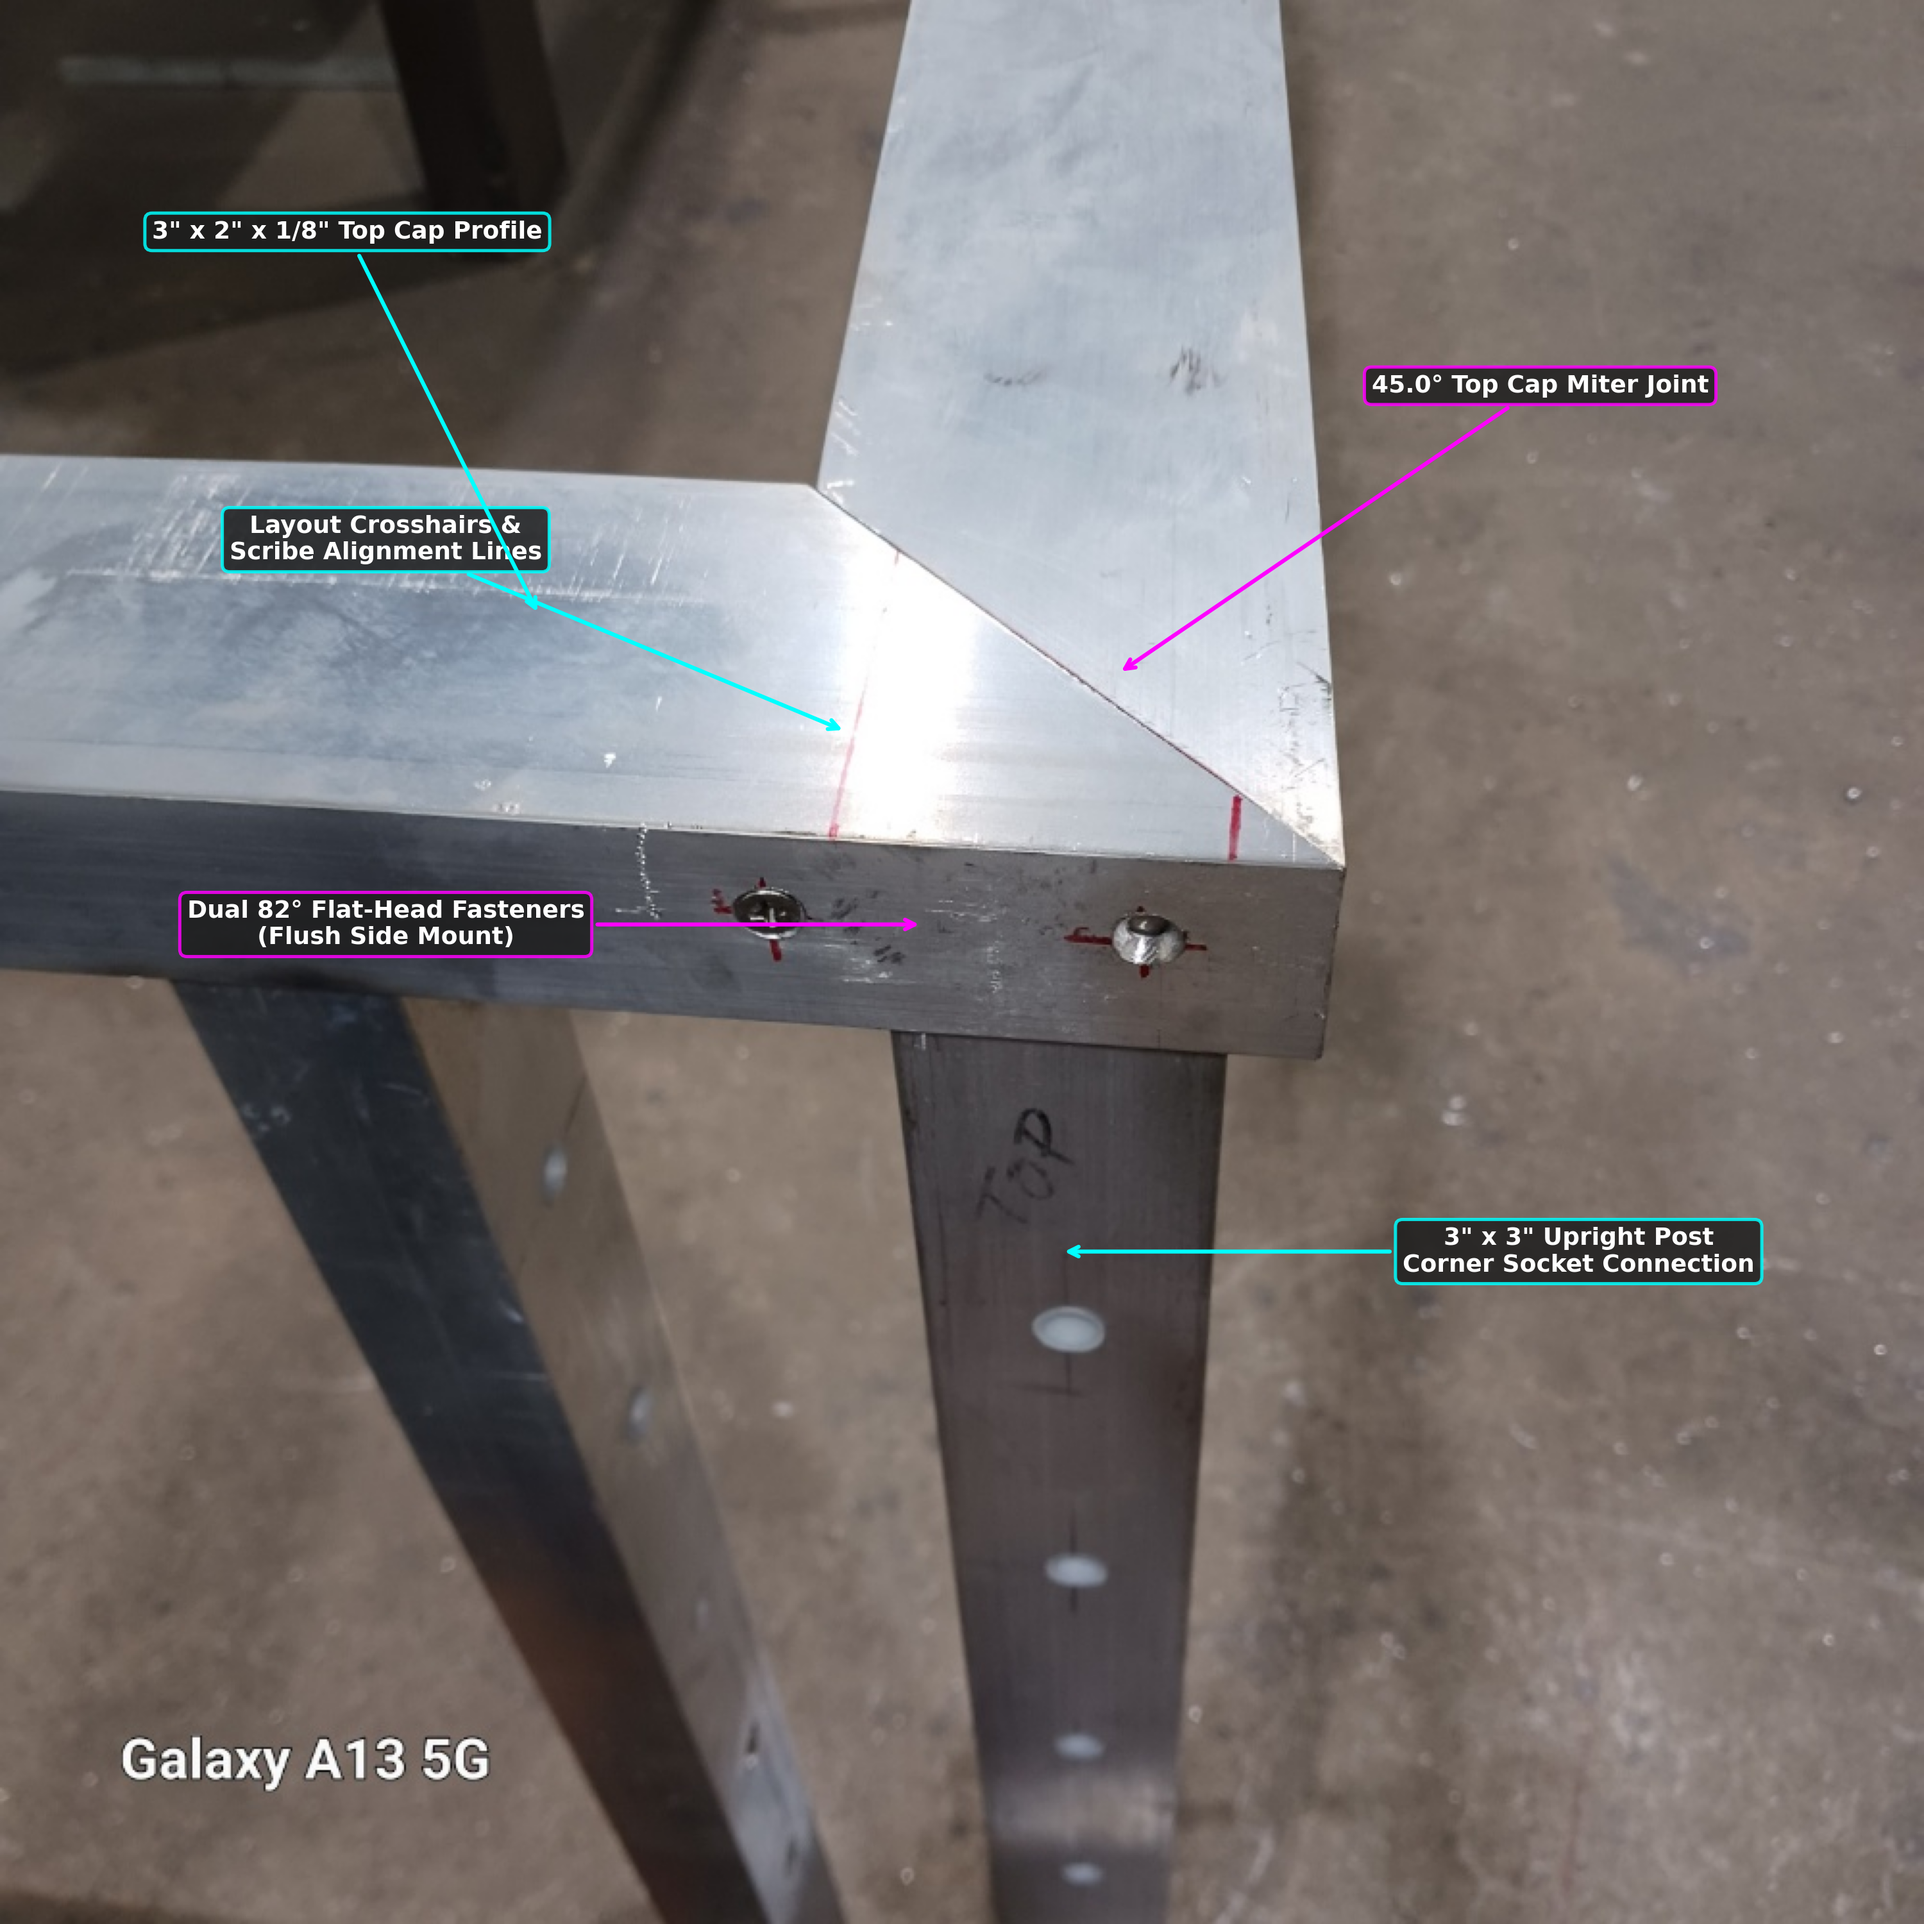
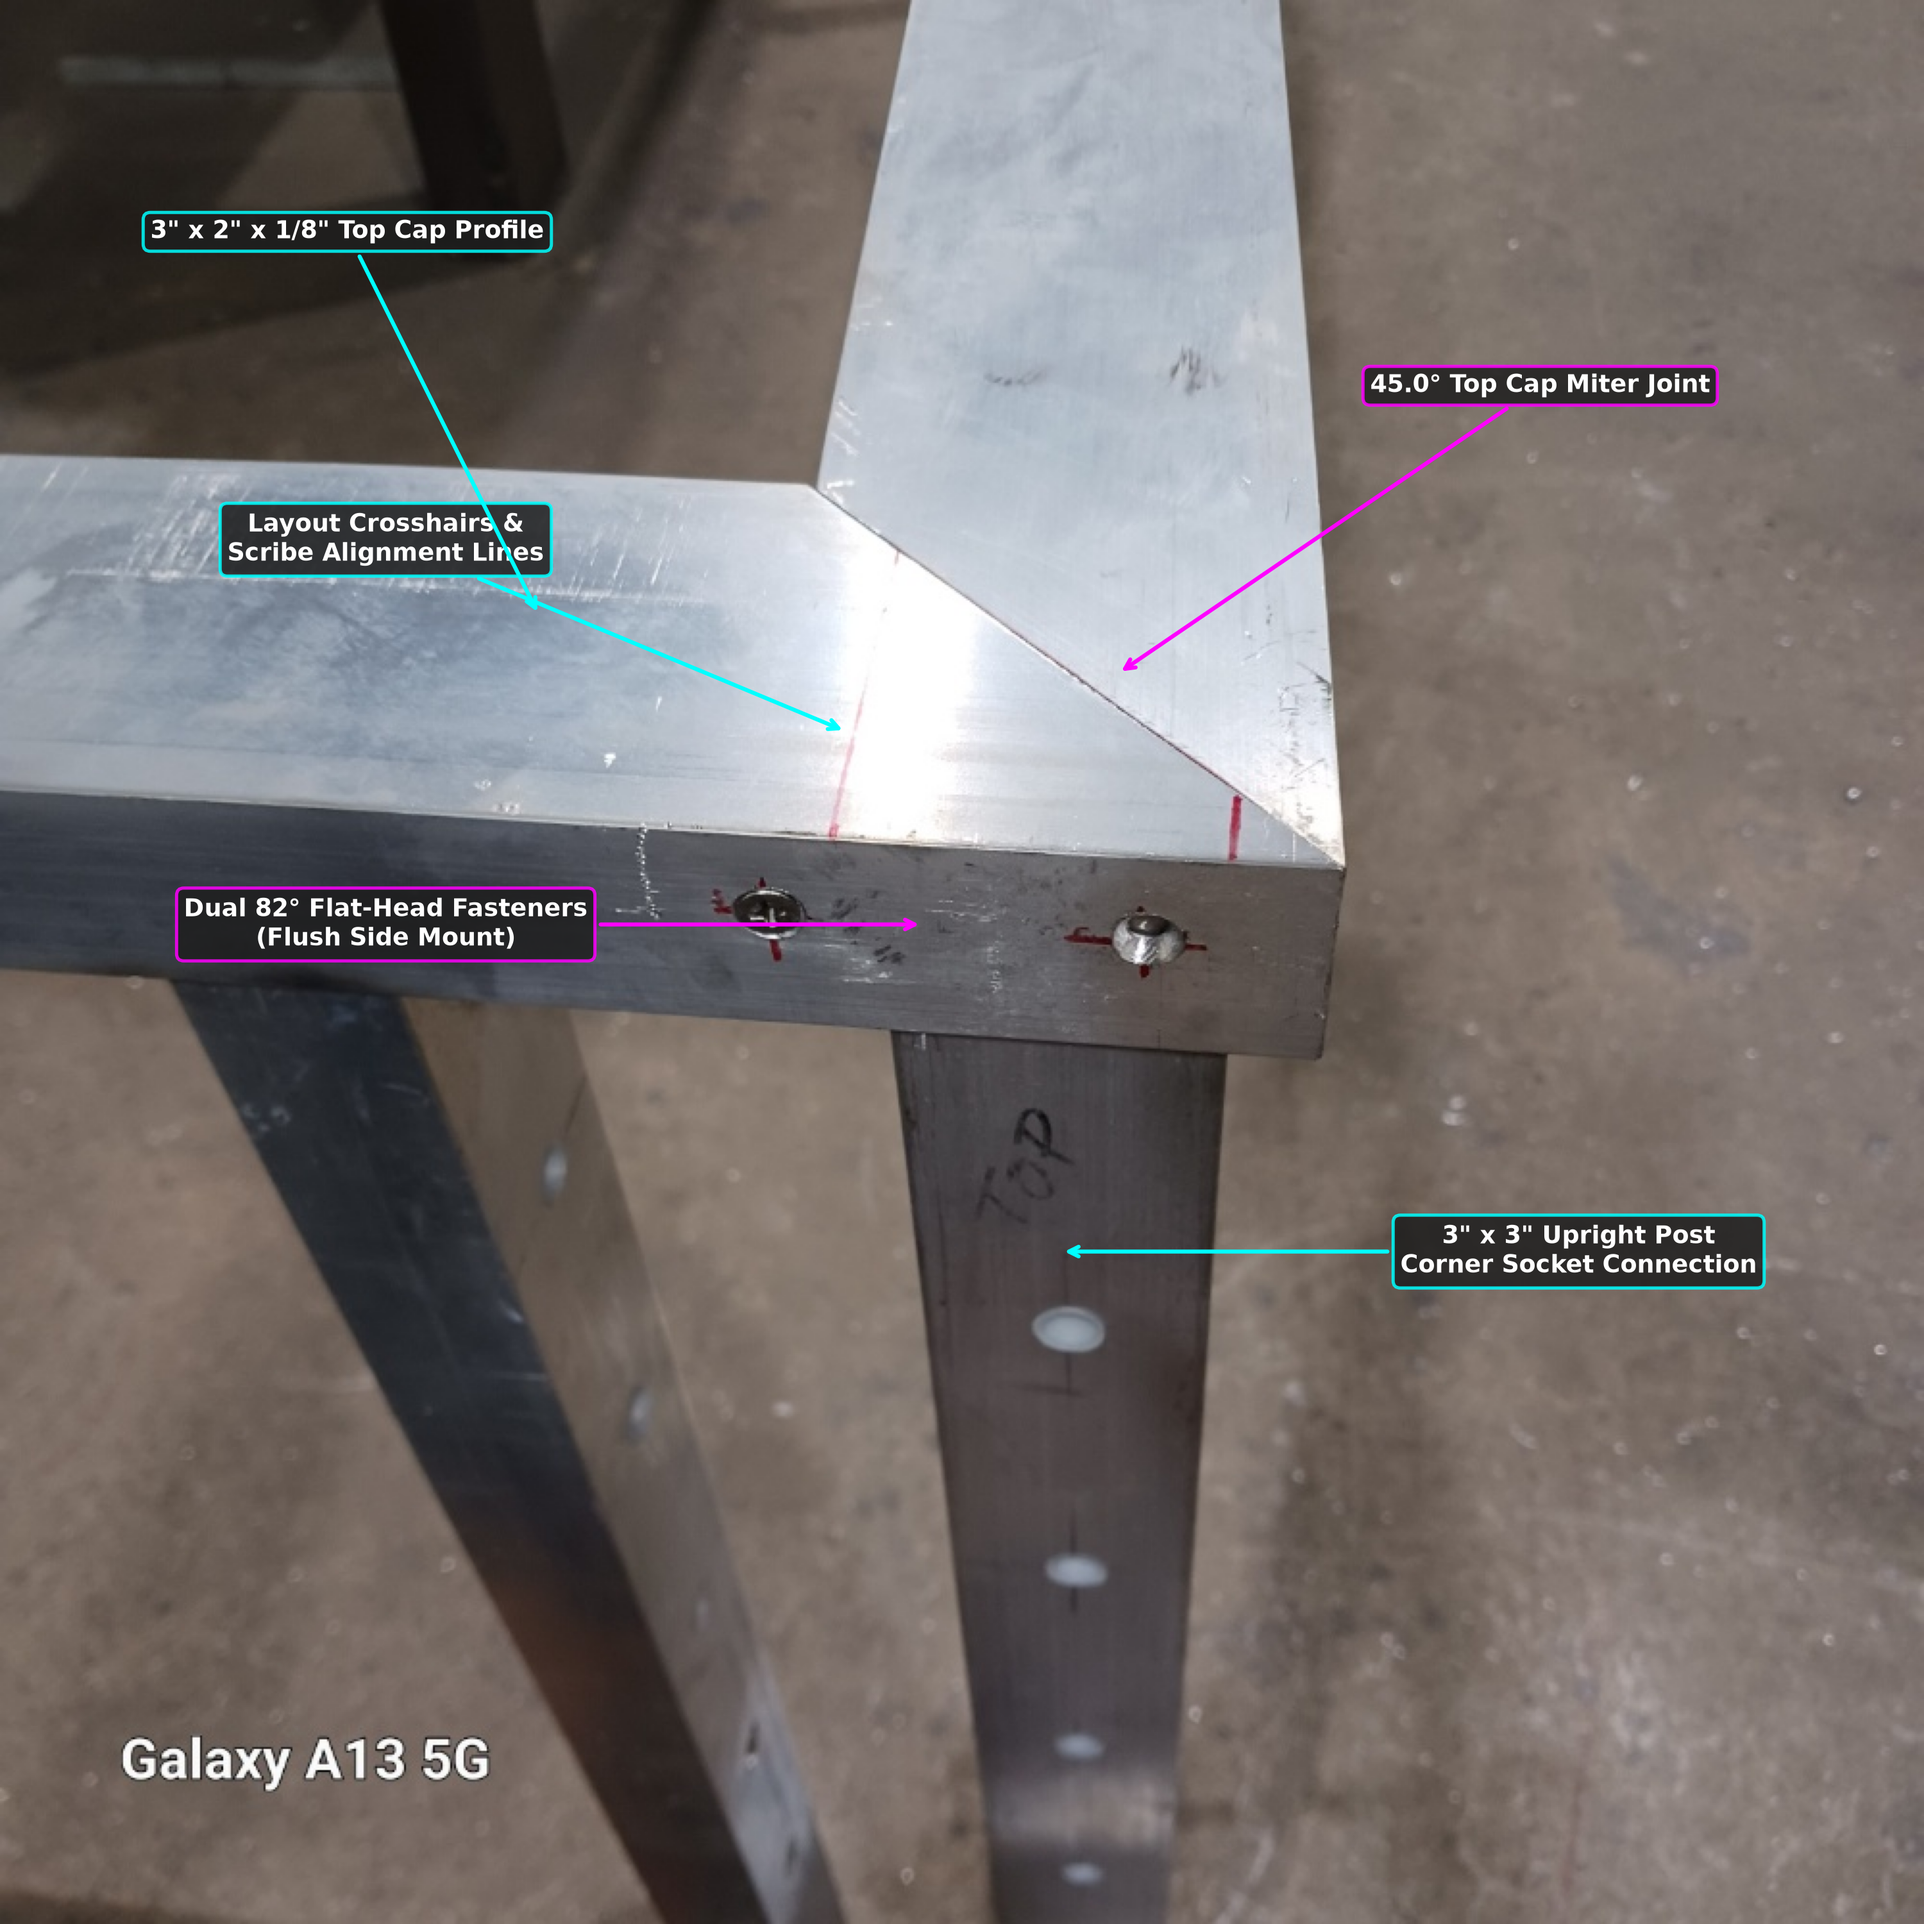
ci(qa): fix cross-platform paths & configure CI build workflow

diff --git a/annotate_frame_corner.py b/annotate_frame_corner.py
@@ -4,10 +4,11 @@ import matplotlib.patches as patches
 from PIL import Image
 
 # =========================================================
-# 1. PATH CONFIGURATION & FILE RESOLUTION
+# 1. PATH CONFIGURATION & FILE RESOLUTION (CROSS-PLATFORM)
 # =========================================================
-repo_dir = r"C:\Users\bmich\Documents\L\templates\aluminum-handrail-generator"
-image_filenames = ["1000006413.jpg", "handrail_corner_spec.jpg"]
+# Dynamically locate repository root regardless of OS environment
+repo_dir = os.path.dirname(os.path.abspath(__file__))
+image_filenames = ["handrail_corner.png", "handrail_corner.jpg", "image_3.png", "1000006413.jpg"]
 
 search_paths = []
 for fname in image_filenames:
@@ -25,8 +26,8 @@ for path in search_paths:
 
 if not input_image_path:
     raise FileNotFoundError(
-        f"Could not locate 1000006413.jpg or handrail_corner_spec.jpg in repo directory: {repo_dir}\n"
-        f"Please verify the image is placed in your repository folder."
+        f"Could not locate 'handrail_corner.png' in repository path: {repo_dir}\n"
+        f"Please verify the image file exists in the workspace."
     )
 
 output_image_path = os.path.join(repo_dir, "handrail_corner_spec.png")
@@ -39,9 +40,9 @@ width, height = img.size
 
 fig, ax = plt.subplots(figsize=(10, 10), dpi=300)
 ax.imshow(img)
-ax.axis("off")
+ax.axis("off")  # Suppress pixel grid
 
-# Colors
+# Style definitions
 cyan = "#00FFFF"
 magenta = "#FF00FF"
 white = "#FFFFFF"
@@ -50,6 +51,7 @@ box_style = dict(boxstyle="round,pad=0.3", facecolor="#1E1E1E", edgecolor=cyan, 
 mag_box_style = dict(boxstyle="round,pad=0.3", facecolor="#1E1E1E", edgecolor=magenta, alpha=0.85, lw=1.2)
 
 def add_callout(text, xy_target, xy_text, color=cyan, style=box_style):
+    """Helper function to render vector arrow callouts and bounding text boxes."""
     ax.annotate(
         text,
         xy=xy_target,
